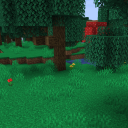
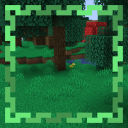
v2.1.0: Port to 41.0.94+, same as Fabric version

Changed region(s): [[0.0312, 0.0312, 0.9688, 0.9688]]

diff --git a/src/main/java/dev/denismasterherobrine/magicalforest/biome/MagicalForestBiomeDecorator.java b/src/main/java/dev/denismasterherobrine/magicalforest/biome/MagicalForestBiomeDecorator.java
@@ -16,16 +16,15 @@ public class MagicalForestBiomeDecorator {
         return Mth.hsvToRgb(0.6325F - f * 0.1F, 0.44F + f * 0.11F, 1F);
     }
 
-    private static Biome biome(Biome.Precipitation precipitation, Biome.BiomeCategory category, float temperature, float downfall, MobSpawnSettings.Builder spawnBuilder, BiomeGenerationSettings.Builder biomeBuilder)
+    private static Biome biome(Biome.Precipitation precipitation, float temperature, float downfall, MobSpawnSettings.Builder spawnBuilder, BiomeGenerationSettings.Builder biomeBuilder)
     {
-        return biome(precipitation, category, temperature, downfall, ColorConstants.STANDARD_WATER, ColorConstants.STANDARD_WATERFOG, ColorConstants.MAGICAL_FOREST_FOLIAGE_COLOR, ColorConstants.MAGICAL_FOREST_GRASS_COLOR, spawnBuilder, biomeBuilder);
+        return biome(precipitation, temperature, downfall, ColorConstants.STANDARD_WATER, ColorConstants.STANDARD_WATERFOG, ColorConstants.MAGICAL_FOREST_FOLIAGE_COLOR, ColorConstants.MAGICAL_FOREST_GRASS_COLOR, spawnBuilder, biomeBuilder);
     }
 
-    private static Biome biome(Biome.Precipitation precipitation, Biome.BiomeCategory category, float temperature, float downfall, int waterColor, int waterFogColor, int grassColor, int foliageColor, MobSpawnSettings.Builder spawnBuilder, BiomeGenerationSettings.Builder biomeBuilder)
+    private static Biome biome(Biome.Precipitation precipitation, float temperature, float downfall, int waterColor, int waterFogColor, int grassColor, int foliageColor, MobSpawnSettings.Builder spawnBuilder, BiomeGenerationSettings.Builder biomeBuilder)
     {
         return (new Biome.BiomeBuilder())
                 .precipitation(precipitation)
-                .biomeCategory(category)
                 .temperature(temperature)
                 .downfall(downfall)
                 .specialEffects((new BiomeSpecialEffects.Builder())
@@ -91,8 +90,10 @@ public class MagicalForestBiomeDecorator {
         BiomeDefaultFeatures.addCommonBerryBushes(biomeFeatures);
         BiomeDefaultFeatures.addJungleMelons(biomeFeatures);
 
+
+
         FancyOakTreeFeature.addFancyOakTrees(biomeFeatures);
 
-        return biome(Biome.Precipitation.RAIN, Biome.BiomeCategory.FOREST, 0.5F, 0.7F, ColorConstants.STANDARD_WATER, ColorConstants.STANDARD_WATERFOG, ColorConstants.MAGICAL_FOREST_FOLIAGE_COLOR, ColorConstants.MAGICAL_FOREST_GRASS_COLOR, spawnSettings, biomeFeatures);
+        return biome(Biome.Precipitation.RAIN, 0.5F, 0.7F, ColorConstants.STANDARD_WATER, ColorConstants.STANDARD_WATERFOG, ColorConstants.MAGICAL_FOREST_FOLIAGE_COLOR, ColorConstants.MAGICAL_FOREST_GRASS_COLOR, spawnSettings, biomeFeatures);
     }
 }

diff --git a/src/main/java/dev/denismasterherobrine/magicalforest/MagicalForest.java b/src/main/java/dev/denismasterherobrine/magicalforest/MagicalForest.java
@@ -1,9 +1,11 @@
 package dev.denismasterherobrine.magicalforest;
 
+import dev.denismasterherobrine.magicalforest.biome.BiomeRegistry;
 import dev.denismasterherobrine.magicalforest.biome.MagicalForestRegionProvider;
 import dev.denismasterherobrine.magicalforest.config.Configuration;
 
 import net.minecraft.resources.ResourceLocation;
+import net.minecraft.world.level.biome.Biome;
 import net.minecraftforge.fml.common.Mod;
 import net.minecraftforge.fml.event.lifecycle.FMLCommonSetupEvent;
 import net.minecraftforge.fml.event.lifecycle.InterModProcessEvent;
@@ -30,13 +32,15 @@ public class MagicalForest {
             FMLJavaModLoadingContext.get().getModEventBus().addListener(this::setup);
             FMLJavaModLoadingContext.get().getModEventBus().addListener(this::processIMC);
 
+            BiomeRegistry.BIOMES.register(FMLJavaModLoadingContext.get().getModEventBus());
+            BiomeRegistry.registerBiomes();
+
             Configuration.loadConfig(Configuration.COMMON_CONFIG, FMLPaths.CONFIGDIR.get().resolve("MagicalForest-common.toml"));
         }
 
         private void setup(final FMLCommonSetupEvent event)
         {
             if (!Configuration.biomeWeightForest.get().equals(0)){
-                // Given we only add one biome, we should keep our weight relatively low.
                 Regions.register(new MagicalForestRegionProvider(new ResourceLocation(MOD_ID, "overworld"), Configuration.biomeWeightForest.get()));
             }
             else LOGGER.info("Magical Forest biome is disabled in the config! Please change 0 to something bigger to re-enable it.");

diff --git a/src/main/java/dev/denismasterherobrine/magicalforest/biome/BiomeRegistry.java b/src/main/java/dev/denismasterherobrine/magicalforest/biome/BiomeRegistry.java
@@ -1,18 +1,27 @@
 package dev.denismasterherobrine.magicalforest.biome;
 
+import dev.denismasterherobrine.magicalforest.MagicalForest;
+import net.minecraft.resources.ResourceKey;
 import net.minecraft.world.level.biome.Biome;
-import net.minecraftforge.event.RegistryEvent;
-import net.minecraftforge.eventbus.api.SubscribeEvent;
 import net.minecraftforge.fml.common.Mod;
-import net.minecraftforge.registries.IForgeRegistry;
+import net.minecraftforge.registries.DeferredRegister;
+import net.minecraftforge.registries.ForgeRegistries;
+import net.minecraftforge.registries.RegistryObject;
+
+import java.util.function.Supplier;
 
 @Mod.EventBusSubscriber(bus = Mod.EventBusSubscriber.Bus.MOD)
 public class BiomeRegistry {
 
-    @SubscribeEvent
-    public static void registerBiomes(RegistryEvent.Register<Biome> event) {
-        IForgeRegistry<Biome> registry = event.getRegistry();
+    public static final DeferredRegister<Biome> BIOMES = DeferredRegister.create(ForgeRegistries.BIOMES, MagicalForest.MOD_ID);
 
-        registry.register(MagicalForestBiomeDecorator.decorateMagicalForest().setRegistryName(BiomeInitializer.MAGICAL_FOREST.location()));
-        }
+    public static void registerBiomes()
+    {
+        register(BiomeInitializer.MAGICAL_FOREST, MagicalForestBiomeDecorator::decorateMagicalForest);
+    }
+
+    public static RegistryObject<Biome> register(ResourceKey<Biome> key, Supplier<Biome> biomeSupplier)
+    {
+        return BIOMES.register(key.location().getPath(), biomeSupplier);
+    }
 }

diff --git a/src/main/java/dev/denismasterherobrine/magicalforest/features/FancyOakTreeFeature.java b/src/main/java/dev/denismasterherobrine/magicalforest/features/FancyOakTreeFeature.java
@@ -14,8 +14,6 @@ import net.minecraft.world.level.levelgen.feature.configurations.TreeConfigurati
 import net.minecraft.world.level.levelgen.feature.featuresize.TwoLayersFeatureSize;
 import net.minecraft.world.level.levelgen.feature.foliageplacers.FancyFoliagePlacer;
 import net.minecraft.world.level.levelgen.feature.stateproviders.BlockStateProvider;
-import net.minecraft.world.level.levelgen.feature.treedecorators.BeehiveDecorator;
-import net.minecraft.world.level.levelgen.feature.treedecorators.TreeDecorator;
 import net.minecraft.world.level.levelgen.feature.trunkplacers.FancyTrunkPlacer;
 import net.minecraft.world.level.levelgen.placement.*;
 
@@ -30,6 +28,7 @@ public class FancyOakTreeFeature {
                 .add(SurfaceWaterDepthFilter.forMaxDepth(0))
                 .add(PlacementUtils.HEIGHTMAP_OCEAN_FLOOR)
                 .add(PlacementUtils.HEIGHTMAP_WORLD_SURFACE)
+                .add(PlacementUtils.HEIGHTMAP_TOP_SOLID)
                 .add(BiomeFilter.biome());
     }
 

diff --git a/src/main/java/dev/denismasterherobrine/magicalforest/util/TagsProvider.java b/src/main/java/dev/denismasterherobrine/magicalforest/util/TagsProvider.java
@@ -1,0 +1,13 @@
+package dev.denismasterherobrine.magicalforest.util;
+
+import dev.denismasterherobrine.magicalforest.MagicalForest;
+import net.minecraft.core.Registry;
+import net.minecraft.resources.ResourceLocation;
+import net.minecraft.tags.TagKey;
+import net.minecraft.world.level.biome.Biome;
+
+public class TagsProvider {
+    // If Thaumcraft ever comes, TC7+ compat could be easy added by adding magical_forests tag to Magical Forest biome.
+    public static TagKey<Biome> MAGICAL_FORESTS =
+            TagKey.create(Registry.BIOME_REGISTRY, new ResourceLocation(MagicalForest.MOD_ID, "magical_forests"));
+}

diff --git a/src/main/java/dev/denismasterherobrine/magicalforest/util/ColorConstants.java b/src/main/java/dev/denismasterherobrine/magicalforest/util/ColorConstants.java
@@ -6,9 +6,9 @@ public class ColorConstants {
 
     public static final int STANDARD_WATERFOG = 0x050533;
 
-    public static int MAGICAL_FOREST_FOLIAGE_COLOR = 0x3AC280;
+    public static int MAGICAL_FOREST_FOLIAGE_COLOR = 0x33FF68;
 
-    public static int MAGICAL_FOREST_GRASS_COLOR = 0x22D469;
+    public static int MAGICAL_FOREST_GRASS_COLOR = 0x45F396;
 
     public static int STANDARD_FOG = 0x7AABFA;
 
